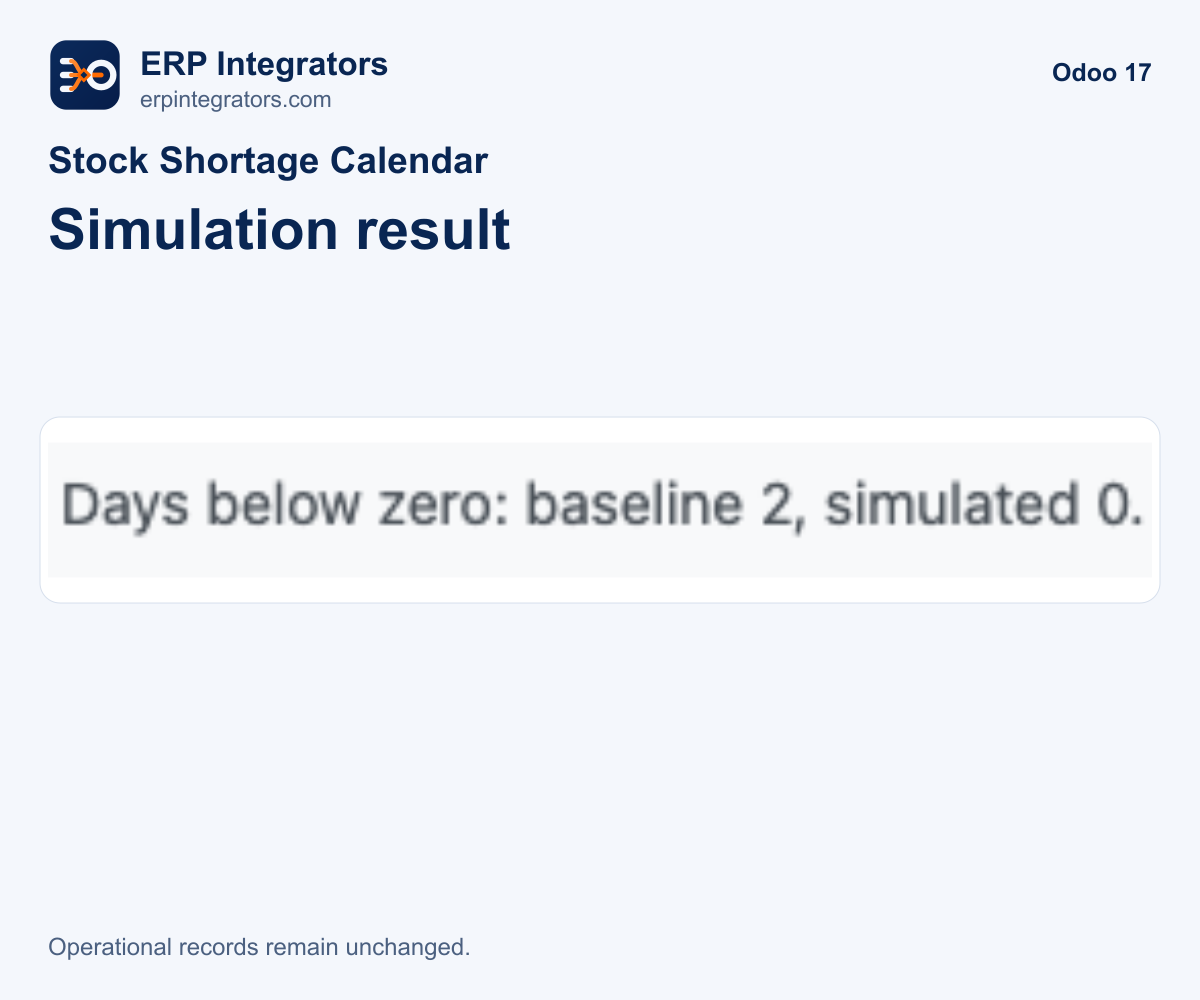
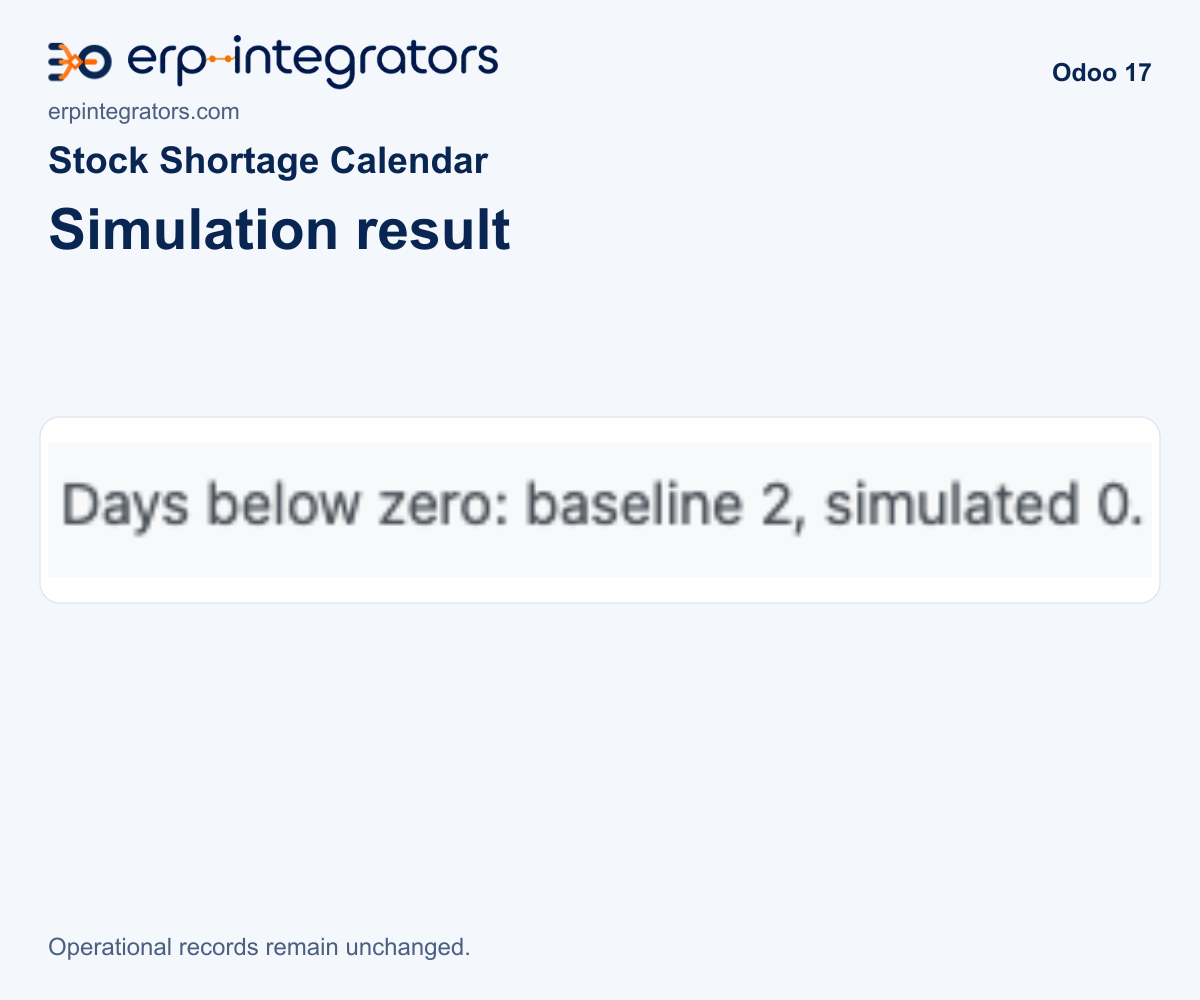
Apply the shared marketplace cover and connected wordmark

Changed region(s): [[0.0308, 0.031, 0.4317, 0.124]]

diff --git a/erpintegrators_daily_stock_matrix/static/description/index.html b/erpintegrators_daily_stock_matrix/static/description/index.html
@@ -1,5 +1,5 @@
 <section class="container py-4" style="font-family:Arial,sans-serif;color:#092653;max-width:1100px;margin:0 auto;padding:24px">
-  <div class="d-flex align-items-center mb-4" style="color:#092653"><img src="logo.png" width="64" height="64" alt="ERP Integrators" class="mr-3"/><div><p class="mb-1" style="font-size:24px;font-weight:600">ERP Integrators</p><p class="mb-0">erpintegrators.com | Solvync Inc.</p></div></div>
+  <div class="mb-4"><img src="logo.png" width="450" height="56" alt="ERP Integrators" style="display:block;width:450px;max-width:100%;height:auto"/><p class="mt-2 mb-0">erpintegrators.com | Solvync Inc.</p></div>
   <h1>Stock Shortage Calendar</h1>
   <p>Review daily stock forecasts, assign shortage follow-ups, compare saved changes and preview receipt timing.</p>
   <p>Odoo 17 Community and Enterprise | Inventory required | LGPL-3</p>
